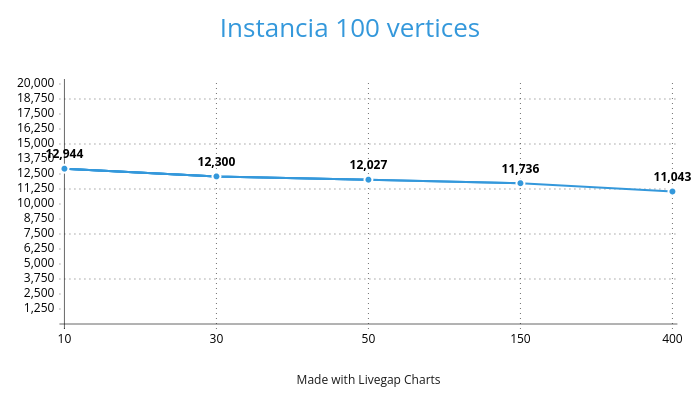
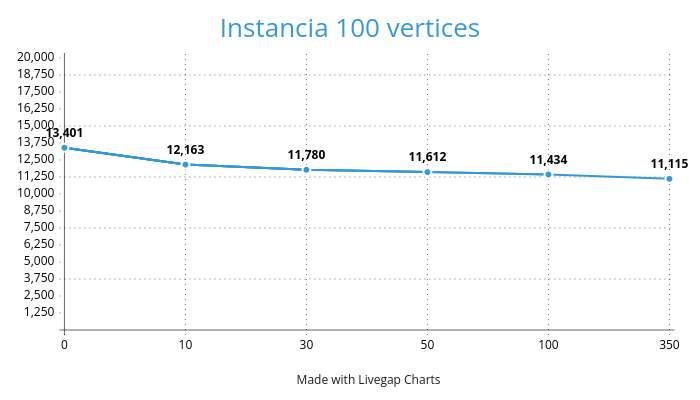
ultimo cambio

diff --git a/index.js b/index.js
@@ -134,7 +134,8 @@ async function main(i,pathInstancia,pathResultado) {
     const resultado = grasp(i,matriz,vertices)
     guardarResultado(resultado,pathResultado) 
 } 
+
 //Ejecuciones de distintas instancias
-main(30,'./instancias/test_graph_100.txt','./resultados/output_test_graph_100.txt')
-// main(120,'./instancias/test_graph_300.txt','./resultados/output_test_graph_300.txt')
-// main(30,'./instancias/test_graph_500.txt','./resultados/output_test_graph_500.txt')
+// main(10,'./instancias/test_graph_100.txt','./resultados/output_test_graph_100.txt')
+// main(10,'./instancias/test_graph_300.txt','./resultados/output_test_graph_300.txt')
+// main(10,'./instancias/test_graph_500.txt','./resultados/output_test_graph_500.txt')
